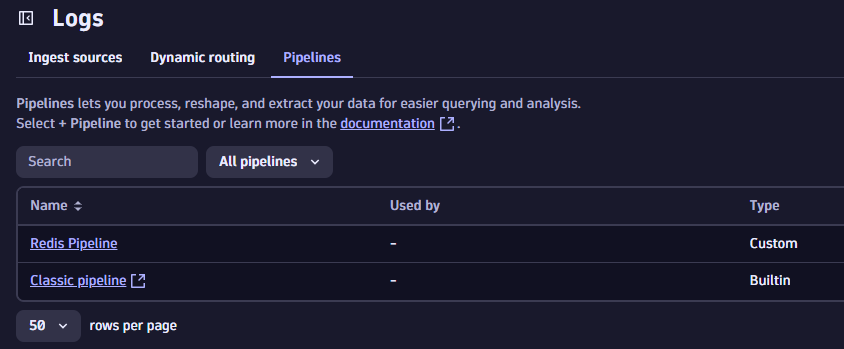
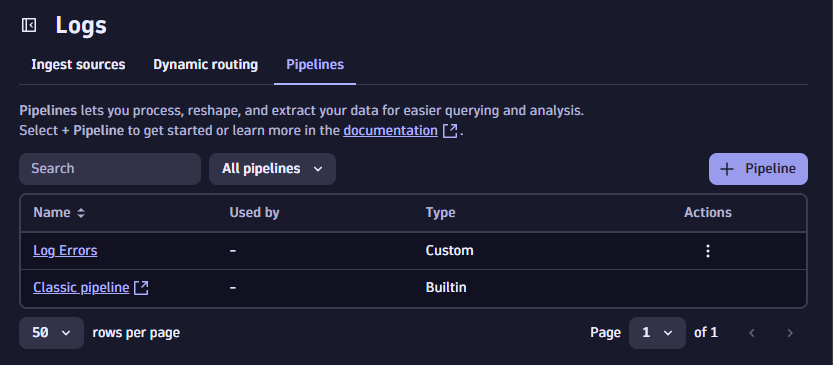
update docs

diff --git a/docs/installation-explained.md b/docs/installation-explained.md
@@ -3,17 +3,111 @@
 !!! warning "Grab a Coffee"
     Everything is installing. This can take a while.
 
+    While you wait, the section below will explain what you've just configured and how it works.
+
 The OpenTelemetry demo and the Dynatrace collector will be installed automatically.
 
-The Dynatrace details you provided during startup will be encrypted, stored in GitHub secrets and made available as environment variables (hint: `printenv` to see).
+The Dynatrace details you provided during startup will be encrypted, stored in GitHub secrets and made available as environment variables.
 
-They will also be stored in a Kubernetes secret:
+They will also be stored in a Kubernetes secret `dynatrace-otelcol-dt-api-credentials`
+
+!!! tip
+    Type `printenv` to see all environment variables
+    set by GitHub.
+
+## Explain the Configuration
+
+!!! tip "OpenTelemetry Experts Need Not Apply"
+    If you already understand OpenTelemetry, the collector, OTTL
+    and are comfortable reading the collector configuration file,
+    you can probably skip this section.
+
+The pipeline setup in the previous section contained references to lots of fields such as `priority`, `alertmessage` and `dt.owner`.
+
+How did all of those fields get there? Remember, this demo does not modify any of the application code.
+
+### 1. Pod Annotations
+
+First, the developer adds additional, custom annotations to the microservice they are interested in. In this case, the `cartservice`.
+
+They do this by adding some Key/Value pairs to the `podAnnotations` (see [otel-demo-values.yaml](https://github.com/Dynatrace/obslab-log-problem-detection/blob/6314352aaeefc489d8d0096b787a981c81831f59/otel-demo-values.yaml#L20){target=_blank}).
+
+During initialisation, the codespace replaces the placeholder text with your tenant details and notebook ID (see [post-create.sh](https://github.com/Dynatrace/obslab-log-problem-detection/blob/6314352aaeefc489d8d0096b787a981c81831f59/.devcontainer/post-create.sh#L38){target=_blank}).
+
+It is important to realise that the developer is in full control of these K/V pairs.
+They can add as many or few as they wish.
+
+You can see these annotations with this command:
 
 ```
-kubectl get secret/dynatrace-otelcol-dt-api-credentials -o yaml
+kubectl describe pod -l app.kubernetes.io/component=cartservice
 ```
+
+![podAnnotations](images/podAnnotations.png)
+
+### 2. Collector Enriches Logs
+
+Logs are [sent out of the cartservice via OpenTelemetry Protocol (OTLP)](https://opentelemetry.io/docs/demo/services/cart/#logs){target=_blank} to the collector.
+
+As log lines flow [through the collector pipeline](https://github.com/Dynatrace/obslab-log-problem-detection/blob/main/collector-values.yaml#L148){target=_blank},
+the logs are processed by two `processors`: The [k8sattributes](https://github.com/open-telemetry/opentelemetry-collector-contrib/blob/main/processor/k8sattributesprocessor){target=_blank} and [transform](https://github.com/open-telemetry/opentelemetry-collector-contrib/tree/main/processor/transformprocessor){target=_blank} processors.
+
+### k8sattributes Processor
+
+The [k8sattributes](https://github.com/open-telemetry/opentelemetry-collector-contrib/blob/main/processor/k8sattributesprocessor){target=_blank} interacts with the Kubernetes API to extract important k8s metadata such as pod names, deployment names, node names and other topology-relevant information.
+
+This processor also [pulls selected annotations from pods](https://github.com/Dynatrace/obslab-log-problem-detection/blob/6314352aaeefc489d8d0096b787a981c81831f59/collector-values.yaml#L49){target=_blank}. Namely, the custom annotations that were set in step one.
+
+!!! info
+    Notice also that the `key`s are renamed in realtime to Dynatrace-relevant keys. (eg. `ownedBy` becomes `dt.owner`).
+
+All of this information: the k8s metadata and custom annotations are dynamically added to each log line and span as it flows through the collector.
+ 
+Thus this log line:
+ 
+```
+2024-10-01 10:00:00 INFO A log message
+```
+
+May become:
+
+```
+2024-10-01 10:00:00 INFO A log message dt.owner=Susan k8s.pod-name=cart-service-abc1234 ...
+```
+
+### transform Processor
+
+The [transform](https://github.com/open-telemetry/opentelemetry-collector-contrib/tree/main/processor/transformprocessor){target=_blank} processor modifies the telemetry (eg. log line content and attributes) based on the [OpenTelemetry Transformation Language](https://github.com/open-telemetry/opentelemetry-collector-contrib/tree/main/pkg/ottl){target=_blank}.
+
+The collector creates new dynatrace-relevant attributes based on existing attributes. [For example](https://github.com/Dynatrace/obslab-log-problem-detection/blob/6314352aaeefc489d8d0096b787a981c81831f59/collector-values.yaml#L106){target=_blank}, taking `k8s.deployment.name` and creating a new attribute called `dt.kubernetes.workload.name` with the same value.
+
+Two brand new attributes `alertmessage` and `priority` are dynamically added (see [here](https://github.com/Dynatrace/obslab-log-problem-detection/blob/6314352aaeefc489d8d0096b787a981c81831f59/collector-values.yaml#L123){target=_blank}) based on conditions we specify.
+
+* `alertmessage` is intended as a place for the developer to indicate a human readable alert message.
+* `priority` is intended as a place for the developer to indicate the importance of this error.
+
+```
+- set(attributes["alertmessage"], "Critical Redis connection error!")
+  where resource.attributes["service.name"] == "cartservice"
+  and resource.attributes["deployment.release_stage"] == "production"
+  and IsMatch(body, "(?i)wasn't able to connect to redis.*")
+
+- set(attributes["priority"], "1")
+  where resource.attributes["service.name"] == "cartservice"
+  and resource.attributes["deployment.release_stage"] == "production"
+  and IsMatch(body, "(?i)wasn't able to connect to redis.*")
+```
+
+!!! success "OpenPipeline Integration"
+    The previous steps demonstrate how the logs are enriched with additional metadata.
+
+    OpenPipeline can then use these fields as logs flow into Dynatrace.
 
 ## Wait for System
+
+The system may still be loading.
+
+Wait until the `Running postCreate command` loading spinner disappears.
 
 ![codespace loading](images/codespace-loading.png)
 

diff --git a/docs/getting-started.md b/docs/getting-started.md
@@ -69,24 +69,24 @@ In Dynatrace:
 ![logs pipeline](images/pipeline-1.png)
 
 * Click `+ Pipeline` to create a new log ingest pipeline.
-* Click the pencil icon and rename the pipeline to `Redis Pipeline`
+* Click the pencil icon and rename the pipeline to `Log Errors`
 * Change to the `Data extraction` tab and add a new `Davis event` processor
 
 ![logs pipeline](images/pipeline-2.png)
 ![davis event pipeline](images/pipeline-davis-event.png)
 
 * Provide any name you like
-* Set the `Matching condition` to `alertme == "true"`
+* Set the `Matching condition` to `true` (this means any log line flowing through the pipeline will alert)
 * Set the `Event name` to:
 
 ```
-[{dt.owner}] Redis connection failed
+[{priority}][{deployment.release_stage}][{deployment.release_product}][{dt.owner}] {alertmessage}
 ```
 
 * Set the `Event description` to:
 
 ```
-{supportInfo}
+{supportInfo} - Log line: {content}
 ```
 
 * Set the `event.type` property to:
@@ -95,11 +95,13 @@ In Dynatrace:
 ERROR_EVENT
 ```
 
-* Add 3 new properties:
+* Add 5 new properties:
 
     * `dt.owner` with value: `{dt.owner}`
     * `dt.cost.costcenter` with value: `{dt.cost.costcenter}`
     * `dt.cost.product` with value: `{dt.cost.product}`
+    * `deployment.release_product` with value: `{deployment.release_product}`
+    * `deployment.release_stage` with value: `{deployment.release_stage}`
 
 !!! warning "Save it!"
     Don't forget to click `Save` to save the pipeline
@@ -110,7 +112,7 @@ ERROR_EVENT
 
 ### Create Pipeline Routing Rule
 
-Create a dynamic routing rule to tell Dynatrace to redirect only certain logs through the Redis pipeline.
+Create a dynamic routing rule to tell Dynatrace to redirect only certain logs through the Logs Errors pipeline.
 
 * Switch to the `Dynamic routing` tab
 * Click `+ Dynamic route`
@@ -118,8 +120,9 @@ Create a dynamic routing rule to tell Dynatrace to redirect only certain logs th
 * Set the `Matching condition` to:
 
 ```
-service.name == "cartservice" and
-dt.owner == "teamA"
+isNotNull(alertmessage) and
+isNotNull(priority) and
+priority == "1"
 ```
 
 * Click `Add`
@@ -133,11 +136,19 @@ dt.owner == "teamA"
 !!! success
     The pipeline is configured.
 
-    Logs flowing into dynatrace from the `cartservice` and owned by `teamA` will be processed
+    Logs flowing into Dynatrace with an `alertmessage` field and a priority of `"1"` will be processed
     via your custom pipeline.
 
-    If any of those individual log lines contain a K/V pair of `alertme: true`
-    a problem will be raised in Dynatrace.
+    Those log lines will raise a custom problem in Dynatrace
+    where the problem title is:
+
+    `[{priority}][{deployment.release_stage}][{deployment.release_product}][{dt.owner}] {alertmessage}`
+
+### Explain the Configuration
+
+The above needs some explanation because there's a lot of "magic" happening.
+
+This will be explained after the demo is started; while you wait for things to initialise.
 
 ## Create API Token
 
@@ -167,8 +178,6 @@ Click this button to open the demo environment. This will open in a new tab.
 * Proceed to the next documentation step with the link below.
 
 ![codespace form](images/codespace-form.png)
-
-
 
 
 <div class="grid cards" markdown>
